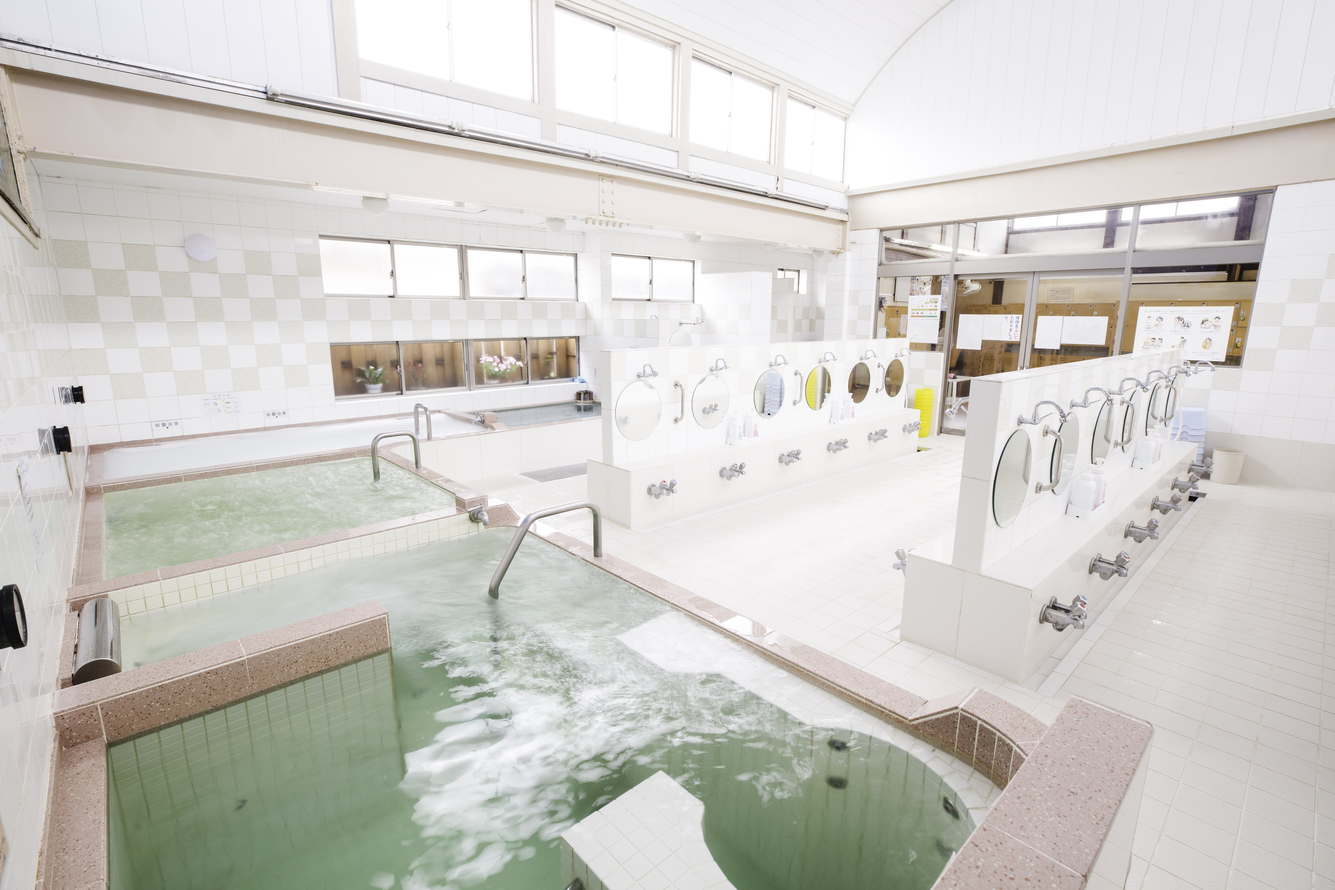
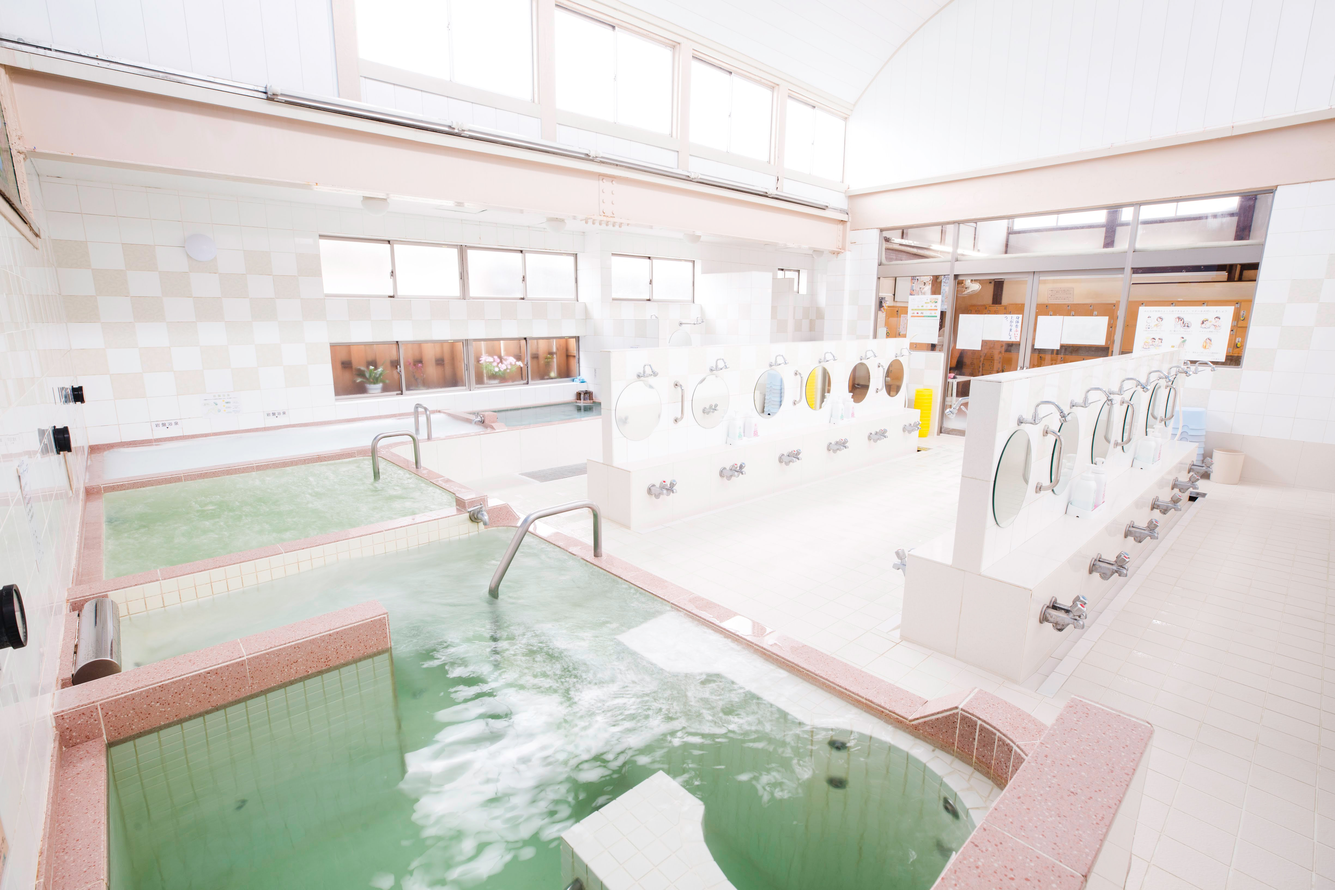
写真書き出し直し

diff --git a/graphql-types.d.ts b/graphql-types.d.ts
@@ -2311,15 +2311,15 @@ export type QuerySitePageArgs = {
   internalComponentName?: Maybe<StringQueryOperatorInput>;
   componentChunkName?: Maybe<StringQueryOperatorInput>;
   matchPath?: Maybe<StringQueryOperatorInput>;
-  id?: Maybe<StringQueryOperatorInput>;
-  parent?: Maybe<NodeFilterInput>;
-  children?: Maybe<NodeFilterListInput>;
-  internal?: Maybe<InternalFilterInput>;
   isCreatedByStatefulCreatePages?: Maybe<BooleanQueryOperatorInput>;
   context?: Maybe<SitePageContextFilterInput>;
   pluginCreator?: Maybe<SitePluginFilterInput>;
   pluginCreatorId?: Maybe<StringQueryOperatorInput>;
   componentPath?: Maybe<StringQueryOperatorInput>;
+  id?: Maybe<StringQueryOperatorInput>;
+  parent?: Maybe<NodeFilterInput>;
+  children?: Maybe<NodeFilterListInput>;
+  internal?: Maybe<InternalFilterInput>;
 };
 
 
@@ -3037,15 +3037,15 @@ export type SitePage = Node & {
   internalComponentName: Scalars['String'];
   componentChunkName: Scalars['String'];
   matchPath?: Maybe<Scalars['String']>;
-  id: Scalars['ID'];
-  parent?: Maybe<Node>;
-  children: Array<Node>;
-  internal: Internal;
   isCreatedByStatefulCreatePages?: Maybe<Scalars['Boolean']>;
   context?: Maybe<SitePageContext>;
   pluginCreator?: Maybe<SitePlugin>;
   pluginCreatorId?: Maybe<Scalars['String']>;
   componentPath?: Maybe<Scalars['String']>;
+  id: Scalars['ID'];
+  parent?: Maybe<Node>;
+  children: Array<Node>;
+  internal: Internal;
 };
 
 export type SitePageConnection = {
@@ -3089,92 +3089,6 @@ export type SitePageFieldsEnum =
   | 'internalComponentName'
   | 'componentChunkName'
   | 'matchPath'
-  | 'id'
-  | 'parent___id'
-  | 'parent___parent___id'
-  | 'parent___parent___parent___id'
-  | 'parent___parent___parent___children'
-  | 'parent___parent___children'
-  | 'parent___parent___children___id'
-  | 'parent___parent___children___children'
-  | 'parent___parent___internal___content'
-  | 'parent___parent___internal___contentDigest'
-  | 'parent___parent___internal___description'
-  | 'parent___parent___internal___fieldOwners'
-  | 'parent___parent___internal___ignoreType'
-  | 'parent___parent___internal___mediaType'
-  | 'parent___parent___internal___owner'
-  | 'parent___parent___internal___type'
-  | 'parent___children'
-  | 'parent___children___id'
-  | 'parent___children___parent___id'
-  | 'parent___children___parent___children'
-  | 'parent___children___children'
-  | 'parent___children___children___id'
-  | 'parent___children___children___children'
-  | 'parent___children___internal___content'
-  | 'parent___children___internal___contentDigest'
-  | 'parent___children___internal___description'
-  | 'parent___children___internal___fieldOwners'
-  | 'parent___children___internal___ignoreType'
-  | 'parent___children___internal___mediaType'
-  | 'parent___children___internal___owner'
-  | 'parent___children___internal___type'
-  | 'parent___internal___content'
-  | 'parent___internal___contentDigest'
-  | 'parent___internal___description'
-  | 'parent___internal___fieldOwners'
-  | 'parent___internal___ignoreType'
-  | 'parent___internal___mediaType'
-  | 'parent___internal___owner'
-  | 'parent___internal___type'
-  | 'children'
-  | 'children___id'
-  | 'children___parent___id'
-  | 'children___parent___parent___id'
-  | 'children___parent___parent___children'
-  | 'children___parent___children'
-  | 'children___parent___children___id'
-  | 'children___parent___children___children'
-  | 'children___parent___internal___content'
-  | 'children___parent___internal___contentDigest'
-  | 'children___parent___internal___description'
-  | 'children___parent___internal___fieldOwners'
-  | 'children___parent___internal___ignoreType'
-  | 'children___parent___internal___mediaType'
-  | 'children___parent___internal___owner'
-  | 'children___parent___internal___type'
-  | 'children___children'
-  | 'children___children___id'
-  | 'children___children___parent___id'
-  | 'children___children___parent___children'
-  | 'children___children___children'
-  | 'children___children___children___id'
-  | 'children___children___children___children'
-  | 'children___children___internal___content'
-  | 'children___children___internal___contentDigest'
-  | 'children___children___internal___description'
-  | 'children___children___internal___fieldOwners'
-  | 'children___children___internal___ignoreType'
-  | 'children___children___internal___mediaType'
-  | 'children___children___internal___owner'
-  | 'children___children___internal___type'
-  | 'children___internal___content'
-  | 'children___internal___contentDigest'
-  | 'children___internal___description'
-  | 'children___internal___fieldOwners'
-  | 'children___internal___ignoreType'
-  | 'children___internal___mediaType'
-  | 'children___internal___owner'
-  | 'children___internal___type'
-  | 'internal___content'
-  | 'internal___contentDigest'
-  | 'internal___description'
-  | 'internal___fieldOwners'
-  | 'internal___ignoreType'
-  | 'internal___mediaType'
-  | 'internal___owner'
-  | 'internal___type'
   | 'isCreatedByStatefulCreatePages'
   | 'context___slug'
   | 'pluginCreator___id'
@@ -3268,7 +3182,93 @@ export type SitePageFieldsEnum =
   | 'pluginCreator___packageJson___peerDependencies___version'
   | 'pluginCreator___packageJson___keywords'
   | 'pluginCreatorId'
-  | 'componentPath';
+  | 'componentPath'
+  | 'id'
+  | 'parent___id'
+  | 'parent___parent___id'
+  | 'parent___parent___parent___id'
+  | 'parent___parent___parent___children'
+  | 'parent___parent___children'
+  | 'parent___parent___children___id'
+  | 'parent___parent___children___children'
+  | 'parent___parent___internal___content'
+  | 'parent___parent___internal___contentDigest'
+  | 'parent___parent___internal___description'
+  | 'parent___parent___internal___fieldOwners'
+  | 'parent___parent___internal___ignoreType'
+  | 'parent___parent___internal___mediaType'
+  | 'parent___parent___internal___owner'
+  | 'parent___parent___internal___type'
+  | 'parent___children'
+  | 'parent___children___id'
+  | 'parent___children___parent___id'
+  | 'parent___children___parent___children'
+  | 'parent___children___children'
+  | 'parent___children___children___id'
+  | 'parent___children___children___children'
+  | 'parent___children___internal___content'
+  | 'parent___children___internal___contentDigest'
+  | 'parent___children___internal___description'
+  | 'parent___children___internal___fieldOwners'
+  | 'parent___children___internal___ignoreType'
+  | 'parent___children___internal___mediaType'
+  | 'parent___children___internal___owner'
+  | 'parent___children___internal___type'
+  | 'parent___internal___content'
+  | 'parent___internal___contentDigest'
+  | 'parent___internal___description'
+  | 'parent___internal___fieldOwners'
+  | 'parent___internal___ignoreType'
+  | 'parent___internal___mediaType'
+  | 'parent___internal___owner'
+  | 'parent___internal___type'
+  | 'children'
+  | 'children___id'
+  | 'children___parent___id'
+  | 'children___parent___parent___id'
+  | 'children___parent___parent___children'
+  | 'children___parent___children'
+  | 'children___parent___children___id'
+  | 'children___parent___children___children'
+  | 'children___parent___internal___content'
+  | 'children___parent___internal___contentDigest'
+  | 'children___parent___internal___description'
+  | 'children___parent___internal___fieldOwners'
+  | 'children___parent___internal___ignoreType'
+  | 'children___parent___internal___mediaType'
+  | 'children___parent___internal___owner'
+  | 'children___parent___internal___type'
+  | 'children___children'
+  | 'children___children___id'
+  | 'children___children___parent___id'
+  | 'children___children___parent___children'
+  | 'children___children___children'
+  | 'children___children___children___id'
+  | 'children___children___children___children'
+  | 'children___children___internal___content'
+  | 'children___children___internal___contentDigest'
+  | 'children___children___internal___description'
+  | 'children___children___internal___fieldOwners'
+  | 'children___children___internal___ignoreType'
+  | 'children___children___internal___mediaType'
+  | 'children___children___internal___owner'
+  | 'children___children___internal___type'
+  | 'children___internal___content'
+  | 'children___internal___contentDigest'
+  | 'children___internal___description'
+  | 'children___internal___fieldOwners'
+  | 'children___internal___ignoreType'
+  | 'children___internal___mediaType'
+  | 'children___internal___owner'
+  | 'children___internal___type'
+  | 'internal___content'
+  | 'internal___contentDigest'
+  | 'internal___description'
+  | 'internal___fieldOwners'
+  | 'internal___ignoreType'
+  | 'internal___mediaType'
+  | 'internal___owner'
+  | 'internal___type';
 
 export type SitePageFilterInput = {
   path?: Maybe<StringQueryOperatorInput>;
@@ -3276,15 +3276,15 @@ export type SitePageFilterInput = {
   internalComponentName?: Maybe<StringQueryOperatorInput>;
   componentChunkName?: Maybe<StringQueryOperatorInput>;
   matchPath?: Maybe<StringQueryOperatorInput>;
-  id?: Maybe<StringQueryOperatorInput>;
-  parent?: Maybe<NodeFilterInput>;
-  children?: Maybe<NodeFilterListInput>;
-  internal?: Maybe<InternalFilterInput>;
   isCreatedByStatefulCreatePages?: Maybe<BooleanQueryOperatorInput>;
   context?: Maybe<SitePageContextFilterInput>;
   pluginCreator?: Maybe<SitePluginFilterInput>;
   pluginCreatorId?: Maybe<StringQueryOperatorInput>;
   componentPath?: Maybe<StringQueryOperatorInput>;
+  id?: Maybe<StringQueryOperatorInput>;
+  parent?: Maybe<NodeFilterInput>;
+  children?: Maybe<NodeFilterListInput>;
+  internal?: Maybe<InternalFilterInput>;
 };
 
 export type SitePageGroupConnection = {
